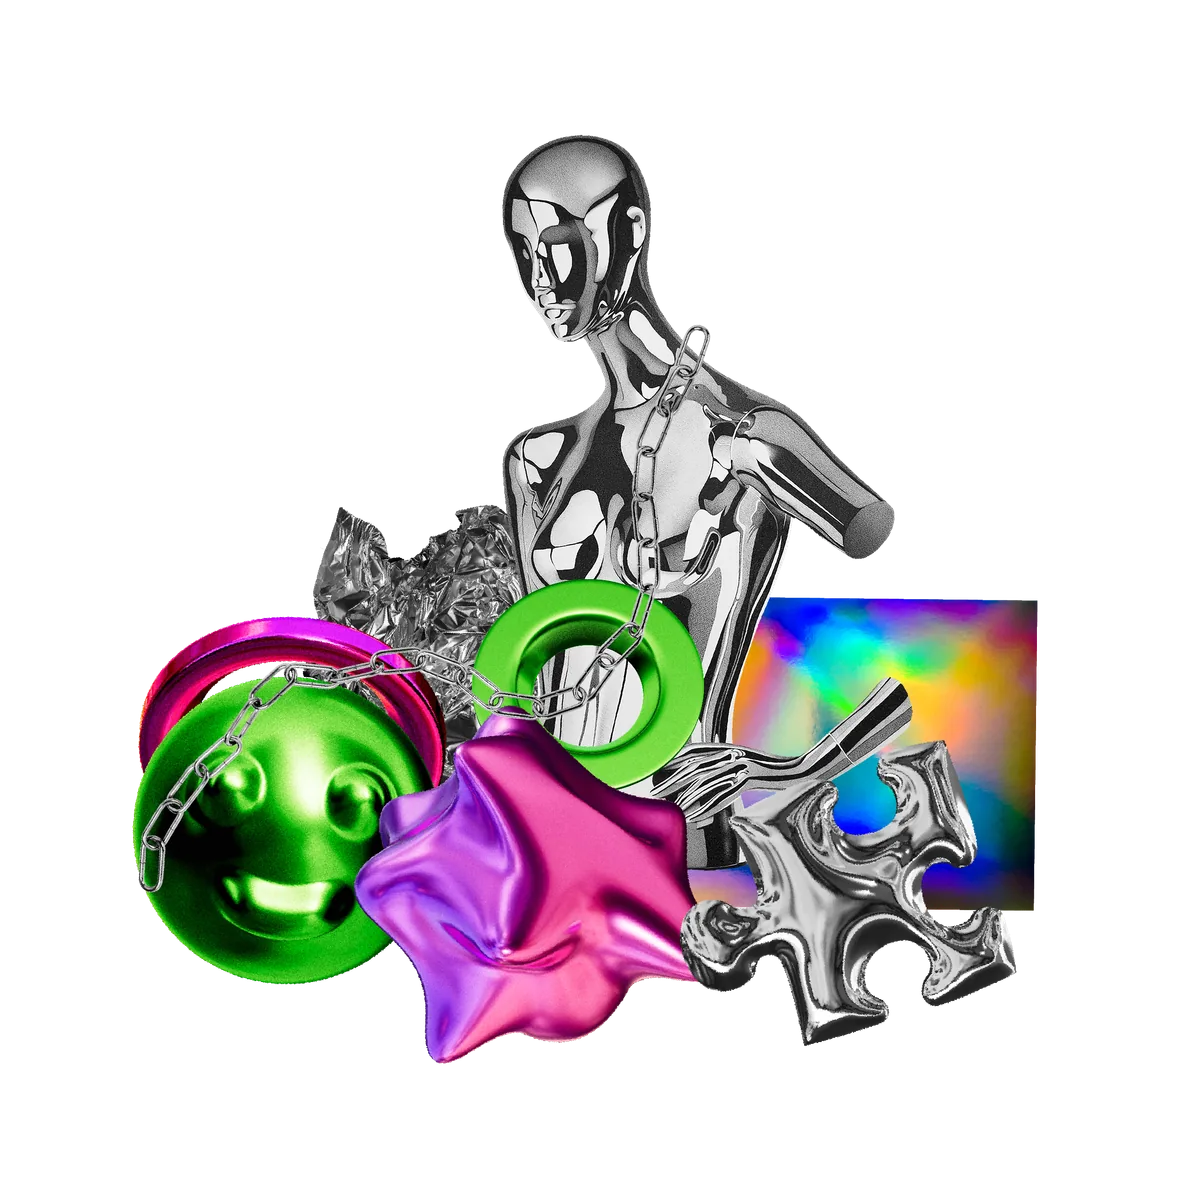
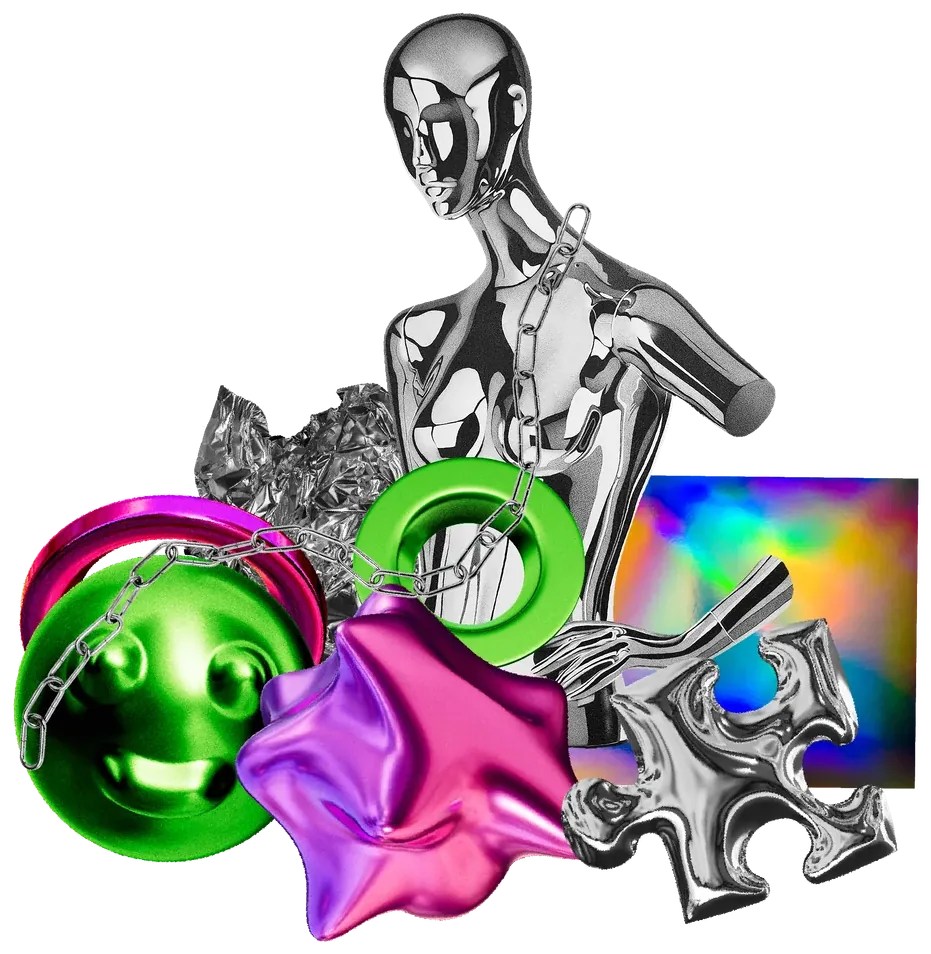
Catch the already-imported cutouts up, and re-derive what depended on them
Twenty-four files still carried empty space; the rest were already at
their edges and were left untouched rather than re-encoded. The nine ink
drawings in Otaku are the ones that show: each was a 1200 square holding
a drawing about 900 wide, sitting in a rows-4 beside three siblings that
filled their cells, so one in every four was visibly small. Nine
sections, one cause.

Two hand-set values were derived from the old shapes and had to move
with them. Hidden Pain's first band goes 5.8575 to 5.8244, its second is
unchanged. Its lead goes 1.687fr to 1.439fr — that number makes the two
columns the same height, w1/r1 = w2 × (1/r2 + 1/r3), and feeding the
pre-crop shapes back through gives 1.686 against the 1.687 in the file,
so the formula is right and only the inputs had changed. Measured after:
715 against 716.

Nothing to do for Otaku's own bands or the book plate: the print row's
files were already tight, and the plate's shifted by three pixels.

diff --git a/src/content/projects/contours-hidden-pain/index.md b/src/content/projects/contours-hidden-pain/index.md
@@ -24,7 +24,7 @@ psychological, body to mind. The sketches hunt the point where a line has stoppe
 diagram and is not yet an illustration.
 
 <!-- auto:images -->
-<div class="lead cutout" style="--cols: 1.687fr 1fr">
+<div class="lead cutout" style="--cols: 1.439fr 1fr">
 
 ![A — STORYBOARD AND SKETCH 01](./b-storyboard-and-sketch-01.jpg)
 
@@ -42,7 +42,7 @@ Tripo AI. The drawing keeps its expression; the conversion tests forms in 3D fas
 of generated models I kept a few.
 
 <!-- auto:images -->
-<div class="band" style="--n: 6; --sum: 5.8215" aria-label="Hand-drawn sketches">
+<div class="band" style="--n: 6; --sum: 5.8244" aria-label="Hand-drawn sketches">
 
 ![B — MORPHOLOGICAL DEVELOPMENT: FROM 2D SKETCH TO 3D FORM 01](./c-morphological-development-from-2d-sketch-to-3d-form-01.webp)
 
